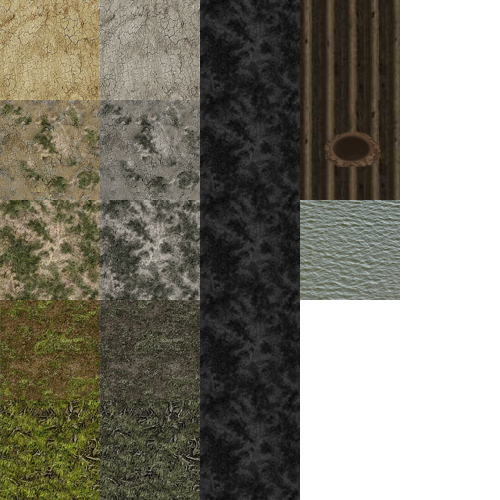
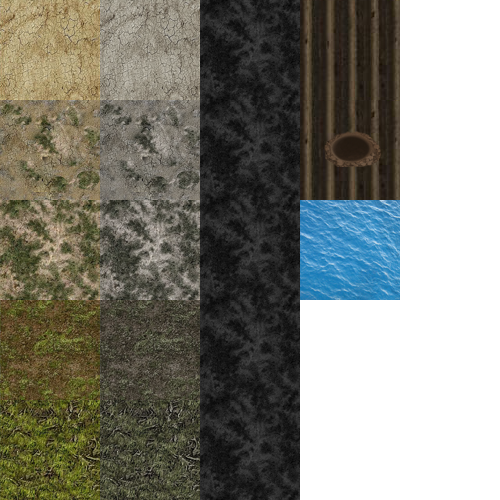
new water texture

Changed region(s): [[0.6, 0.39, 0.81, 0.6]]

diff --git a/NewStyle.css b/NewStyle.css
@@ -209,7 +209,7 @@ body, .playButton, .continueButton {
     z-index: 3;
 }
 
-.continueButton:hover, .playButton:hover{
+.continueButton:hover{
     background: #525b68;
     text-decoration: none;
 }
